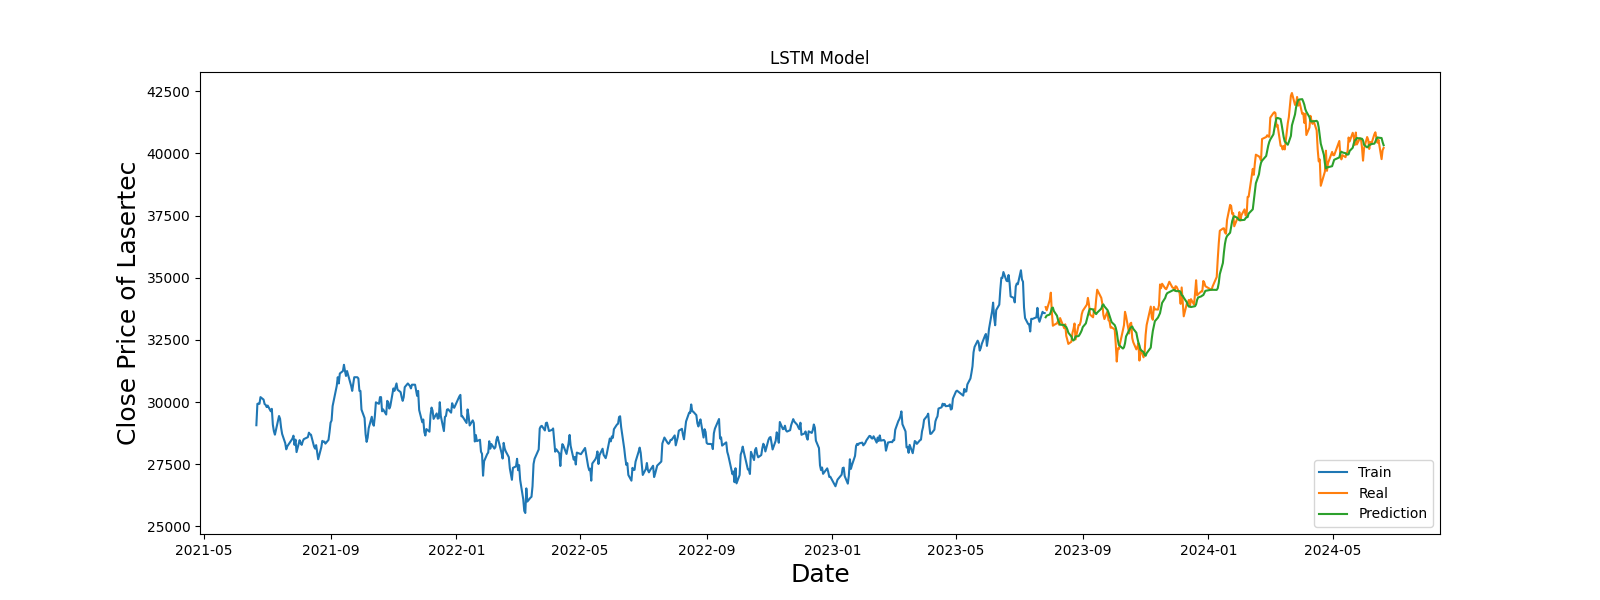
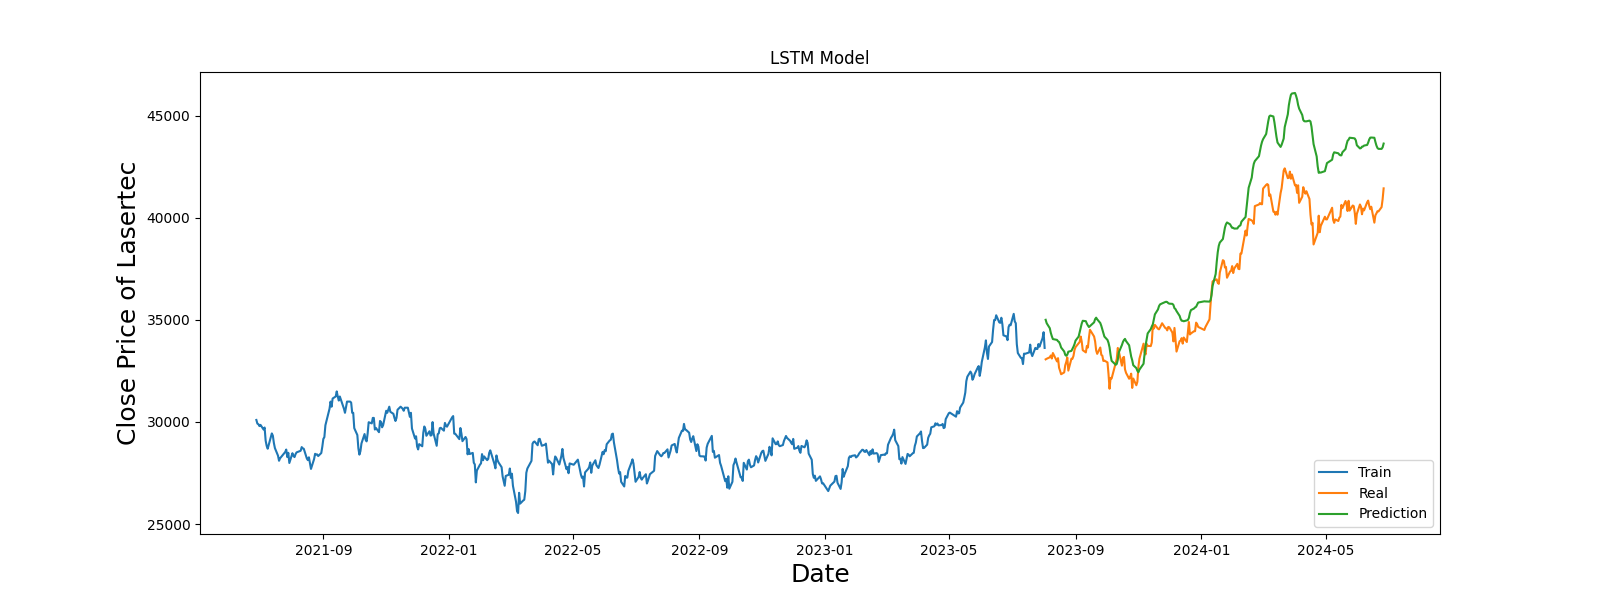
streamlit

diff --git a/final.py b/final.py
@@ -8,88 +8,107 @@ from sklearn.preprocessing import MinMaxScaler
 from keras.models import Sequential
 from keras.layers import Dense, LSTM
 from sklearn.metrics import mean_squared_error
-import os
-import streamlit as st 
+import streamlit as st
 
-
-class Finance:
-    def __init__(self):
-        pass
+class DataLoader:
+    def __init__(self, stock_code):
+        self.stock_code = stock_code
     
     def _get_time(self):
-        self.dt_now = datetime.now()
-        self.end = self.dt_now.strftime('%Y-%m-%d')
-        self.start_day = self.dt_now - timedelta(days=1095)
-        self.start = self.start_day.strftime('%Y-%m-%d')
-        
-        return self.start, self.end
+        dt_now = datetime.now()
+        end = dt_now.strftime('%Y-%m-%d')
+        start_day = dt_now - timedelta(days=1095)
+        start = start_day.strftime('%Y-%m-%d')
+        return start, end
+    
+    def get_data(self):
+        start, end = self._get_time()
+        df = yf.download(self.stock_code, start=start, end=end, interval='1d')
+        data = df.filter(['Close'])
+        dataset = data.values
+        return data, dataset
 
-    def get_data(self, stock_code):
-        self.start_day, self.end_day = self._get_time()
-        self.df = yf.download(stock_code, start=self.start_day, end=self.end_day, interval='1d')
-        self.data = self.df.filter(['Close'])
-        self.dataset = self.data.values
-        
-        return self.data, self.dataset
+class ModelTrainer:
+    def __init__(self):
+        self.scaler = MinMaxScaler(feature_range=(0,1))
     
     def normalize_data(self, data):
-        self.scaler = MinMaxScaler(feature_range=(0,1))
-        self.scaled_data = self.scaler.fit_transform(data)
-        
-        return self.scaled_data
+        return self.scaler.fit_transform(data)
     
-    def split_data(self, data, ratio):
-        self.training_data_len = int(np.ceil(len(data) * ratio))
-        self.train_data = data[0: int(self.training_data_len), :]
-        self.x_train = []
-        self.y_train = []
-        for i in range(60, len(self.train_data)): 
-            self.x_train.append(self.train_data[i-60:i,0])
-            self.y_train.append(self.train_data[i,0])
-
-        self.x_train, self.y_train = np.array(self.x_train), np.array(self.y_train)
-        self.x_train = np.reshape(self.x_train,(self.x_train.shape[0], self.x_train.shape[1], 1))
-        
-        self.train = self.data[:self.training_data_len]
-        self.vaild = self.data[self.training_data_len:]
-
-        return self.x_train, self.y_train, self.train, self.vaild
+    def split_data(self, data, ratio=0.7):
+        training_data_len = int(np.ceil(len(data) * ratio))
+        train_data = data[0: training_data_len, :]
+        x_train, y_train = [], []
+        for i in range(60, len(train_data)):
+            x_train.append(train_data[i-60:i, 0])
+            y_train.append(train_data[i, 0])
+        x_train, y_train = np.array(x_train), np.array(y_train)
+        x_train = np.reshape(x_train, (x_train.shape[0], x_train.shape[1], 1))
+        return x_train, y_train, training_data_len
     
     def train_model(self, x_train, y_train):
-        self.x_train = x_train
-        self.y_train = y_train
-        self.model = Sequential()
-        self.model.add(LSTM(50, return_sequences=True, input_shape=(self.x_train.shape[1], 1)))
-        self.model.add(LSTM(50, return_sequences=False))
-        self.model.add(Dense(25))
-        self.model.add(Dense(1))
-        
-        self.model.compile(optimizer='adam', loss='mean_squared_error')
-        self.model.fit(self.x_train, self.y_train, batch_size=1, epochs=1)
-        
-        return self.model
+        model = Sequential()
+        model.add(LSTM(50, return_sequences=True, input_shape=(x_train.shape[1], 1)))
+        model.add(LSTM(50, return_sequences=False))
+        model.add(Dense(25))
+        model.add(Dense(1))
+        model.compile(optimizer='adam', loss='mean_squared_error')
+        model.fit(x_train, y_train, batch_size=1, epochs=1)
+        return model
     
-class Plot:
-    def __init__(self):
-        pass
-    
-    def save_plot_data(self, x, y, title, xlabel, ylabel, save_path):
-        plt.figure(figsize=(16,6))
-        plt.title(title)
-        plt.plot(x)
-        plt.xlabel(xlabel, fontsize=18)
-        plt.ylabel(ylabel, fontsize=18)
-        plt.savefig(save_path)
-    
-    def streamlit_plot(self, data):
-        st.line_chart(data)
+    def make_predictions(self, model, data, training_data_len):
+        test_data = data[training_data_len - 60:, :]
+        x_test = []
+        for i in range(60, len(test_data)):
+            x_test.append(test_data[i-60:i, 0])
+        x_test = np.array(x_test)
+        x_test = np.reshape(x_test, (x_test.shape[0], x_test.shape[1], 1))
+        predictions = model.predict(x_test)
+        predictions = self.scaler.inverse_transform(predictions)
+        return predictions
 
-st.title("株価予測アプリ")
-finance = Finance()
-plot = Plot()
-stock_code = st.text_input('stockコードを入力してください')
-if stock_code == '':
-    pass
-else:
-    data, dataset = finance.get_data(stock_code)
-    plot.streamlit_plot(data)
+class Plotter:
+    @staticmethod
+    def plot_data_with_predictions(train, valid, predictions):
+        plt.figure(figsize=(16, 6))
+        plt.title('LSTM Model')
+        plt.xlabel('Date', fontsize=18)
+        plt.ylabel('Close Price', fontsize=18)
+        plt.plot(train['Close'], label='Train')
+        plt.plot(valid['Close'], label='Real')
+        plt.plot(valid.index, predictions, label='Prediction', color='red')
+        plt.legend(['Train', 'Real', 'Prediction'], loc='lower right')
+        st.pyplot(plt)
+
+    @staticmethod
+    def plot_data_with_streamlit(valid):
+        st.line_chart(valid)
+
+class StreamlitApp:
+    def __init__(self):
+        self.data_loader = None
+        self.model_trainer = ModelTrainer()
+        self.plotter = Plotter()
+    
+    def run(self):
+        st.title("株価予測アプリ")
+        stock_code = st.text_input('stockコードを入力してください')
+        if stock_code:
+            self.data_loader = DataLoader(stock_code)
+            data, dataset = self.data_loader.get_data()
+            st.line_chart(data)
+            
+            scaled_data = self.model_trainer.normalize_data(dataset)
+            x_train, y_train, training_data_len = self.model_trainer.split_data(scaled_data)
+            if st.button('モデルを訓練'):
+                model = self.model_trainer.train_model(x_train, y_train)
+                predictions = self.model_trainer.make_predictions(model, scaled_data, training_data_len)
+                train = data[:training_data_len]
+                valid = data[training_data_len:]
+                valid['Predictions'] = predictions
+                self.plotter.plot_data_with_predictions(train, valid, predictions)
+                self.plotter.plot_data_with_streamlit(valid)
+
+if __name__ == "__main__":
+    app = StreamlitApp()
+    app.run()

diff --git a/test_three.py b/test_three.py
@@ -1,0 +1,101 @@
+import streamlit as st
+import pandas as pd
+from datetime import datetime, timedelta
+import numpy as np
+import matplotlib.pyplot as plt
+import yfinance as yf
+from sklearn.preprocessing import MinMaxScaler
+from keras.models import Sequential
+from keras.layers import Dense, LSTM
+from sklearn.metrics import mean_squared_error
+import os
+
+# 現在の日時を取得
+dt_now = datetime.now()
+end = dt_now.strftime('%Y-%m-%d')
+start_day = dt_now - timedelta(days=1095)
+start = start_day.strftime('%Y-%m-%d')
+
+# 株価データの取得
+stock_code = "1321.T"
+df = yf.download(stock_code, start=start, end=end, interval='1d')
+
+data = df.filter(["Open", "High", "Low", "Close"])
+dataset = data.values
+
+# データの正規化(Close Price)
+data_close = df.filter(["Close"])
+dataset_close = data_close.values
+scaler = MinMaxScaler(feature_range=(0,1))
+scaled_data = scaler.fit_transform(dataset_close)
+
+training_data_len = int(np.ceil(len(dataset_close) * 0.7))
+
+train_data = scaled_data[0: int(training_data_len), :]
+
+# 訓練データの取得
+x_train = []
+y_train = []
+for i in range(60, len(train_data)): 
+    x_train.append(train_data[i-60:i,0])
+    y_train.append(train_data[i,0])
+
+# 訓練データのreshape
+x_train, y_train = np.array(x_train), np.array(y_train)
+x_train = np.reshape(x_train,(x_train.shape[0], x_train.shape[1], 1))
+
+# LSTMモデル構築
+model = Sequential()
+model.add(LSTM(128, return_sequences=True, input_shape=(x_train.shape[1], 1)))
+model.add(LSTM(64, return_sequences=False))
+model.add(Dense(25))
+model.add(Dense(1))
+model.compile(optimizer='adam', loss='mean_squared_error')
+
+# 訓練用モデル構築
+model.fit(x_train, y_train, batch_size=1, epochs=20)
+
+# 検証用データを取得とデータ変換
+test_data = scaled_data[training_data_len - 60: , :]
+x_test = []
+y_test = dataset_close[training_data_len:, :]
+
+for i in range(60, len(test_data)):
+    x_test.append(test_data[i-60:i,0])
+
+x_test = np.array(x_test)
+x_test = np.reshape(x_test, (x_test.shape[0], x_test.shape[1], 1))
+
+# 予測値の算出
+predictions = model.predict(x_test)
+predictions = scaler.inverse_transform(predictions)
+
+# RMSEを利用して予測精度を確認
+test_score = np.sqrt(mean_squared_error(y_test, predictions))
+
+train = data_close[: training_data_len]
+valid = data_close[training_data_len:]
+valid['Predictions'] = predictions
+
+# Streamlitの設定
+st.title('株価予測モデル')
+st.write(f'テストスコア (RMSE): {test_score:.2f}')
+
+# 株価データのプロット
+st.subheader('価格履歴')
+plt.figure(figsize=(16,6))
+plt.plot(data["Close"], label="Close")
+plt.plot(data["Open"], label="Open")
+plt.plot(data["High"], label="High")
+plt.plot(data["Low"], label="Low")
+plt.legend()
+st.pyplot(plt)
+
+# LSTMモデルの予測結果プロット
+st.subheader('LSTMモデルの予測結果')
+plt.figure(figsize=(16,6))
+plt.plot(train['Close'], label='Train')
+plt.plot(valid['Close'], label='Real')
+plt.plot(valid['Predictions'], label='Prediction')
+plt.legend(['Train', 'Real', 'Prediction'], loc='lower right')
+st.pyplot(plt)
